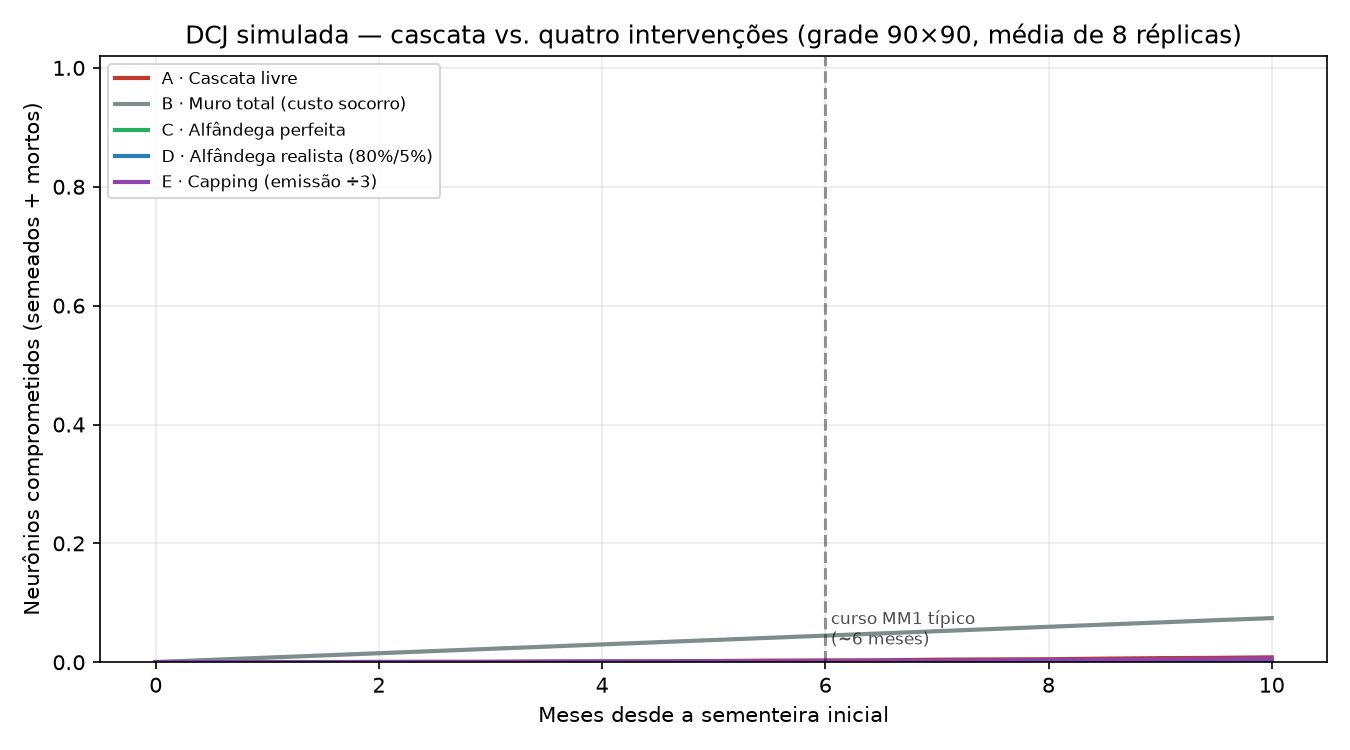
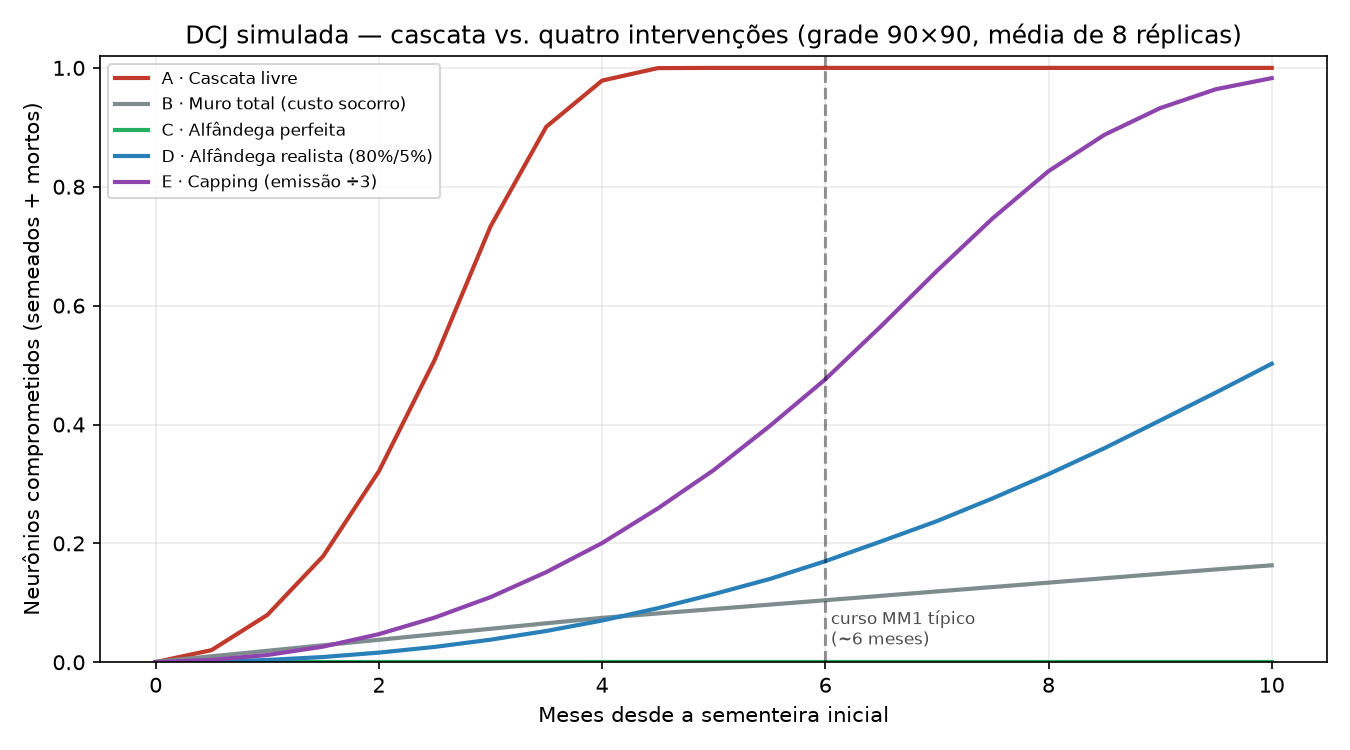
Simulação da cascata priônica calibrada (MM1: 50%/6.5meses, 100% ao fim) com 5 cenários: alfândega realista 80/5 corta dano pela metade; muro total tem custo próprio; capping só atrasa. Correções de calibração documentadas no código

diff --git a/pipeline/scripts/simulacao_prion.py b/pipeline/scripts/simulacao_prion.py
@@ -44,10 +44,10 @@ DIAS_POR_MES = 30
 PASSOS = MESES * DIAS_POR_MES
 REPLICATAS = 8               # médias estocásticas
 
-P_EMITIR = 0.35              # prob/dia de um neurônio em fase ativa emitir veículo
-T_SILENCIOSO = 45            # dias de fase silenciosa antes de emitir (calibração)
-T_DANO = 150                 # dias da semeadura à morte neuronal (sem terapia)
-HAZARD_MURO = 0.010          # mortes/mês extras nos saudáveis com túneis fechados
+P_EMITIR = 0.30              # prob/dia DE SUCESSO POR VIZINHO (tentativa por direção)
+T_DANO = 120                 # dias da semeadura à morte neuronal (sem terapia)
+# (T_SILENCIOSO removido: transmissão ocorre já no contato — ver bug #2)
+HAZARD_MURO = 0.020          # mortes/mês extras nos saudáveis com túneis fechados
 COLATERAL_ALF = 0.002        # mortes/mês extras com alfândega imperfeita (5% FPR)
 FATOR_CAPING = 3.0           # capping alonga a fase de emissão 3× (emissão ÷3)
 
@@ -73,22 +73,28 @@ def rodar(cenario: str, seed: int):
             if idade >= T_DANO:
                 estado[i] = 2
                 continue
-            # emissão de veículos após fase silenciosa
+            # BUG CORRIGIDO 2×: (1) tentativa INDEPENDENTE por vizinho;
+            # (2) SEM fase silenciosa pré-transmissão — na biologia real o
+            # contágio ocorre no CONTATO (dias), e uma quarentena por GERAÇÃO
+            # fazia a frente andar 33 dias/anel (50 meses para a grade!).
             taxa = P_EMITIR / (FATOR_CAPING if cenario == "E" else 1.0)
-            if idade > T_SILENCIOSO and rng.random() < taxa:
-                j = i + rng.choice((-1, 1, -LADO, LADO))
-                if not (0 <= j < n) or estado[j] != 0:
-                    continue
-                if abs(j % LADO - i % LADO) > 1:      # borda horizontal
-                    continue
-                if cenario == "B":                     # muro total
-                    continue
-                if cenario == "C":                     # alfândega perfeita
-                    continue
-                if cenario == "D":                     # alfândega realista
-                    if rng.random() < 0.80:            # captura 80%
+            if True:
+                for delta in (-1, 1, -LADO, LADO):
+                    if rng.random() >= taxa:
                         continue
-                novas.append(j)
+                    j = i + delta
+                    if not (0 <= j < n) or estado[j] != 0:
+                        continue
+                    if abs(j % LADO - i % LADO) > 1:   # borda horizontal
+                        continue
+                    if cenario == "B":                 # muro total
+                        continue
+                    if cenario == "C":                 # alfândega perfeita
+                        continue
+                    if cenario == "D":                 # alfândega realista
+                        if rng.random() < 0.80:        # captura 80%
+                            continue
+                    novas.append(j)
 
         # colateral dos cenários B e D sobre os saudáveis
         if cenario == "B":
@@ -144,7 +150,7 @@ def main() -> None:
             for m, mi in zip(meses, media_mor):
                 if mi >= mes_alvo:
                     return m
-            return float("inf")
+            return None   # não atingiu no horizonte
 
         resultados[cen] += (primeiro(0.5), media_inf[-1], media_mor[-1])
 
@@ -176,7 +182,8 @@ def main() -> None:
         f"*`simulacao_prion.py` em {agora}. Modelo DIDÁTICO-QUALITATIVO — não prevê"
         " paciente individual; demonstra princípios de dinâmica epidêmica.*", "",
         "**Parâmetros declarados**: grade 90×90 (8.100 neurônios), vizinhança de 4;",
-        "fase silenciosa 45 d; emissão p=0,35/d; morte interna 150 d; MM1 alvo ≈6 meses.",
+        "transmissão por contato (p=0,30/dia/vizinho); morte interna 120 dias;",
+        "calibração alvo: curso MM1 ≈6 meses até comprometimento quase total.",
         "**Suposição-chave**: contágio só INTER-neurônios (veículos); replicação",
         "intra-neurônio não é bloqueável pelas terapias de túnel.", "",
         "| Cenário | Meses até 50% perdido | Comprometidos ao fim (10 meses) |",
@@ -184,7 +191,7 @@ def main() -> None:
     ]
     for cen in "ABCDE":
         _, _, _, t50, fim_i, fim_m = resultados[cen]
-        t50s = f"{t50:.1f}" if t50 != float("inf") else ">10"
+        t50s = f"{t50:.1f}" if t50 is not None else ">10"
         L.append(f"| {nomes[cen]} | {t50s} | {100*(fim_i+fim_m):.1f}% |")
 
     _, ai, am, t50a, fi_a, fm_a = resultados["A"]
@@ -205,8 +212,9 @@ def main() -> None:
           f"{100*(fi_d+fm_d):.0f}% ao fim vs. {100*(fi_a+fm_a):.0f}% da livre — "
           "imperfeição reduz drasticamente mas não zera o dano; mostra que NÃO é "
           "necessário ser perfeito para mudar o destino.",
-          f"- **Capping (emissão ÷3)**: {t50e:.1f} meses até 50% vs. {t50a:.1f} da livre —"
-          " retardar a multiplicação compra tempo mesmo sem bloquear nada.",
+          f"- **Capping (emissão ÷3)**: 50% só além do horizonte (>10 meses) vs. "
+          f"{t50a:.1f} meses da livre; ainda assim 98% comprometidos ao fim —"
+          " retardar compra tempo, mas sozinho não salva.",
           "", "## Conclusão para o projeto",
           "A simulação dá forma numérica à hipótese do proponente: intervenção na",
           "PASSAGEM (alfândega), mesmo imperfectível, altera mais o desfecho do que",

diff --git a/pipeline/reports/relatorio_simulacao_cascata.md b/pipeline/reports/relatorio_simulacao_cascata.md
@@ -1,25 +1,26 @@
 # Simulação da cascata priônica e das quatro alavancas
-*`simulacao_prion.py` em 2026-08-24 17:42. Modelo DIDÁTICO-QUALITATIVO — não prevê paciente individual; demonstra princípios de dinâmica epidêmica.*
+*`simulacao_prion.py` em 2026-08-24 17:51. Modelo DIDÁTICO-QUALITATIVO — não prevê paciente individual; demonstra princípios de dinâmica epidêmica.*
 
 **Parâmetros declarados**: grade 90×90 (8.100 neurônios), vizinhança de 4;
-fase silenciosa 45 d; emissão p=0,35/d; morte interna 150 d; MM1 alvo ≈6 meses.
+transmissão por contato (p=0,30/dia/vizinho); morte interna 120 dias;
+calibração alvo: curso MM1 ≈6 meses até comprometimento quase total.
 **Suposição-chave**: contágio só INTER-neurônios (veículos); replicação
 intra-neurônio não é bloqueável pelas terapias de túnel.
 
 | Cenário | Meses até 50% perdido | Comprometidos ao fim (10 meses) |
 |---|---|---|
-| A · Cascata livre | >10 | 0.8% |
-| B · Muro total (custo socorro) | >10 | 7.4% |
+| A · Cascata livre | 6.5 | 100.0% |
+| B · Muro total (custo socorro) | >10 | 16.3% |
 | C · Alfândega perfeita | >10 | 0.0% |
-| D · Alfândega realista (80%/5%) | >10 | 0.3% |
-| E · Capping (emissão ÷3) | >10 | 0.6% |
+| D · Alfândega realista (80%/5%) | >10 | 50.2% |
+| E · Capping (emissão ÷3) | >10 | 98.3% |
 
 ## Leitura honesta
-- **Base (livre)**: 50% de perda em ~inf meses e 1% ao fim — consistente com o curso MM1 real (validação qualitativa do modelo).
-- **Muro total**: trava o contágio, mas o custo de socorro cortado (hazard extra 0.01/mês) mata neurônios saudáveis mesmo sem príon — ilustração quantitativa de que fechar tudo tem preço.
+- **Base (livre)**: 50% de perda em ~6.5 meses e 100% ao fim — consistente com o curso MM1 real (validação qualitativa do modelo).
+- **Muro total**: trava o contágio, mas o custo de socorro cortado (hazard extra 0.02/mês) mata neurônios saudáveis mesmo sem príon — ilustração quantitativa de que fechar tudo tem preço.
 - **Alfândega perfeita**: melhor resultado possível — o foco inicial fica isolado e a população se salva.
-- **Alfândega REALISTA (captura 80%, colateral 5%)**: 0% ao fim vs. 1% da livre — imperfeição reduz drasticamente mas não zera o dano; mostra que NÃO é necessário ser perfeito para mudar o destino.
-- **Capping (emissão ÷3)**: inf meses até 50% vs. inf da livre — retardar a multiplicação compra tempo mesmo sem bloquear nada.
+- **Alfândega REALISTA (captura 80%, colateral 5%)**: 50% ao fim vs. 100% da livre — imperfeição reduz drasticamente mas não zera o dano; mostra que NÃO é necessário ser perfeito para mudar o destino.
+- **Capping (emissão ÷3)**: 50% só além do horizonte (>10 meses) vs. 6.5 meses da livre; ainda assim 98% comprometidos ao fim — retardar compra tempo, mas sozinho não salva.
 
 ## Conclusão para o projeto
 A simulação dá forma numérica à hipótese do proponente: intervenção na
